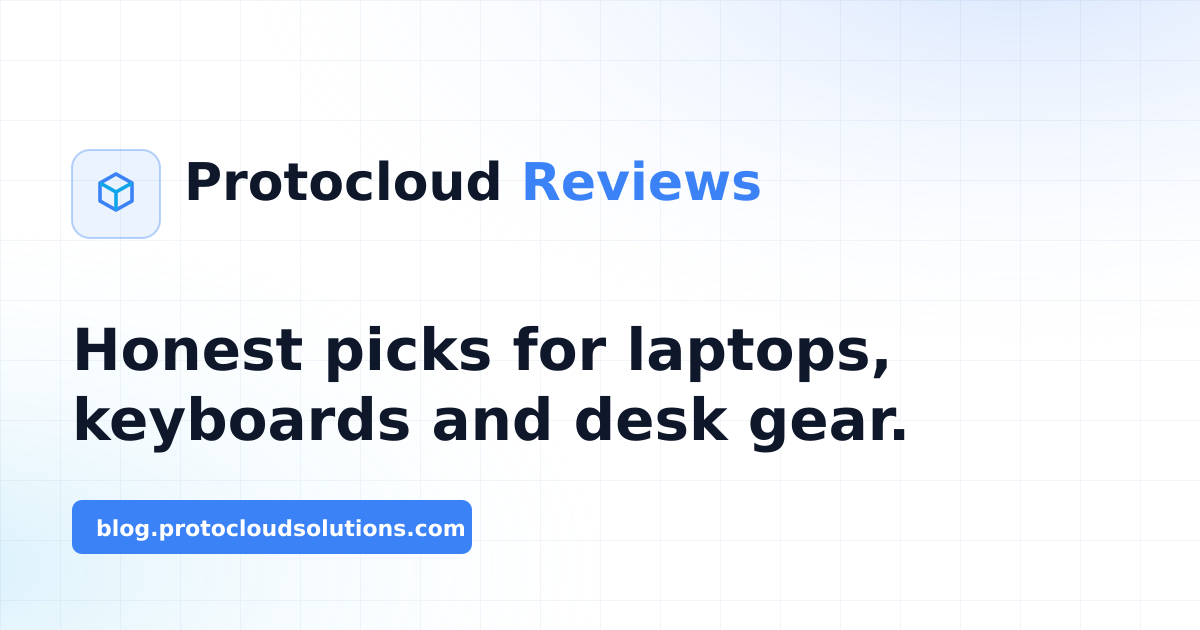
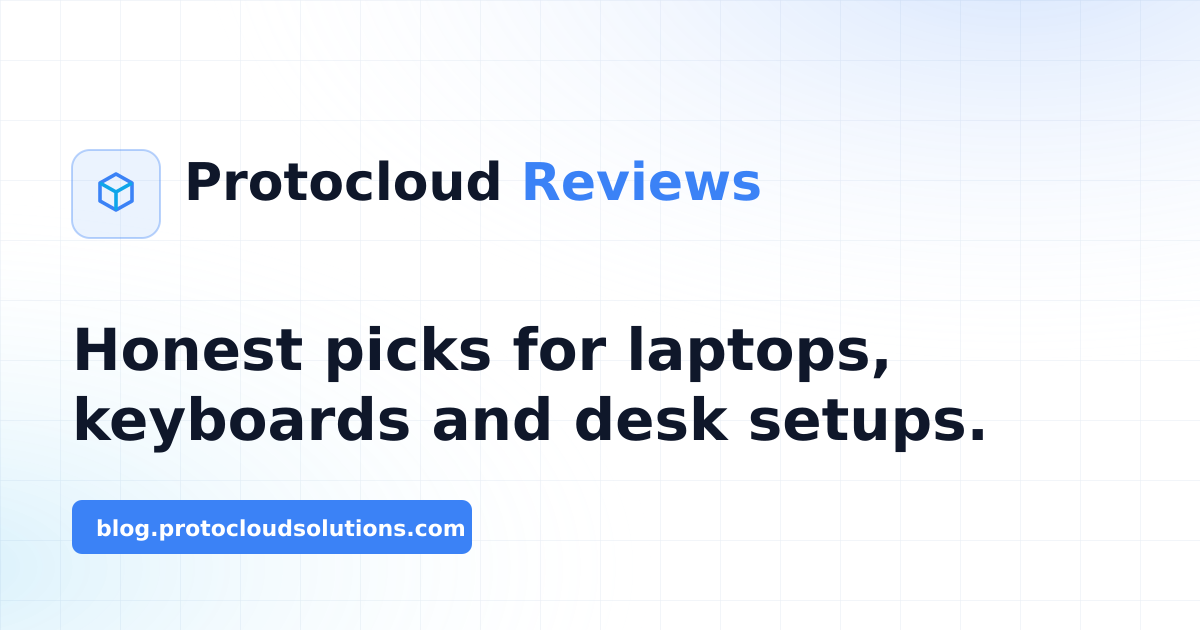
Drop the word gear from the homepage headline and site copy
Claude-Session: https://claude.ai/code/session_015NwwvBg3C9QBfj6rdhRywg

Changed region(s): [[0.6167, 0.6333, 0.8325, 0.7238]]

diff --git a/blog/src/lib/site.ts b/blog/src/lib/site.ts
@@ -3,7 +3,7 @@ export const SITE = {
   name: 'Protocloud Reviews',
   tagline: 'Honest picks for laptops, keyboards and the gadgets on your desk',
   description:
-    'Tech gadget reviews and buying guides. Best laptops, keyboards, monitors and desk gear, tested by engineers who use them all day.',
+    'Tech gadget reviews and buying guides. Best laptops, keyboards, monitors and desk accessories, tested by engineers who use them all day.',
   url: 'https://blog.protocloudsolutions.com',
   // Legal operator, shown only in the privacy policy and copyright line.
   legalName: 'Protocloud Solutions',
